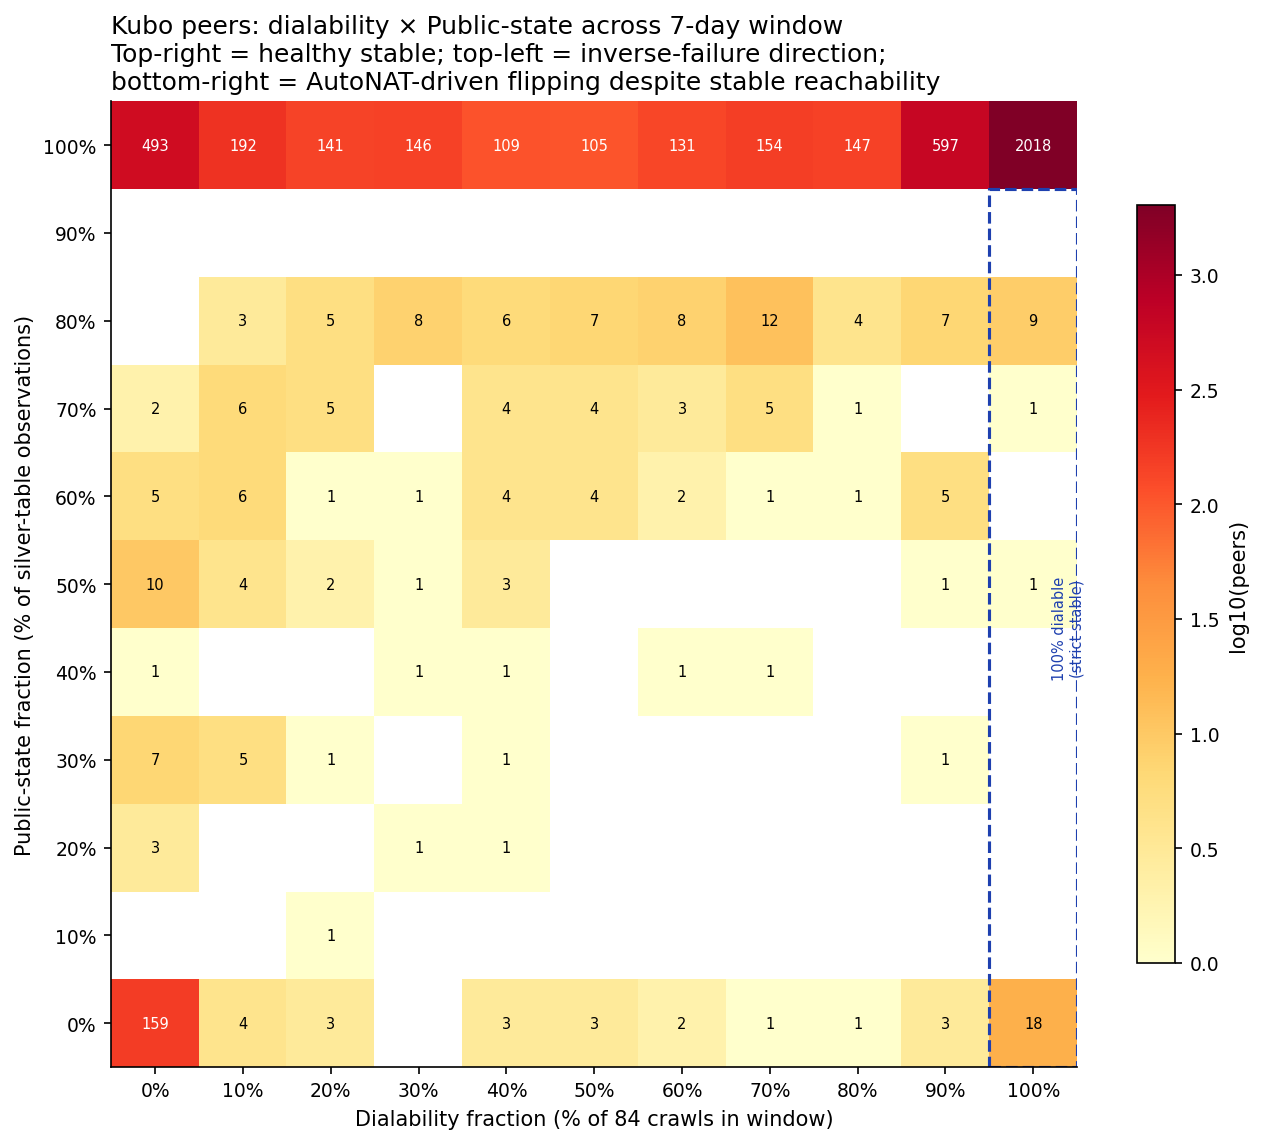
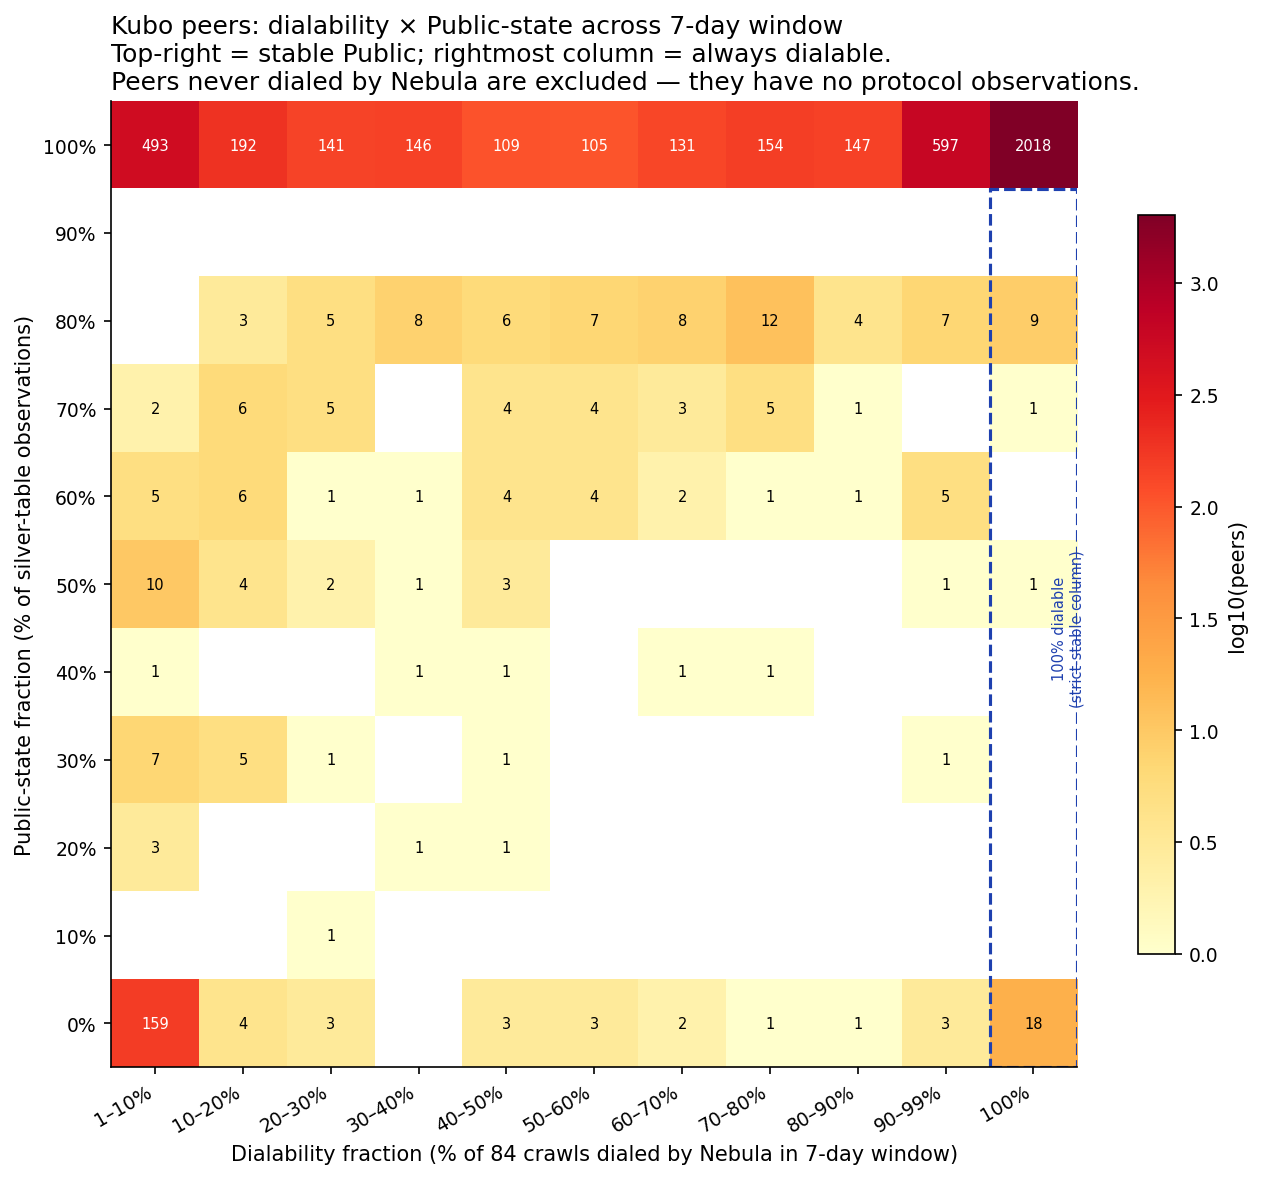
docs(nebula): fix figure 6 X-axis labels — leftmost column is "1-10%", not "0%"
Two corrections to the dialability × Public-state heatmap (figure 6):

1. Relabel X-axis ticks. The leftmost decile contained peers dialed in
   1 to 8 crawls out of 84, NOT peers dialed in zero crawls. Peers with
   zero successful dials are excluded by the SQL filter (they have no
   silver observations to compute Public-state fraction from). The
   previous "0%" label suggested a "never dialable" cell that doesn't
   exist in the data. New labels: "1-10%", "10-20%", ..., "90-99%", "100%".

2. Update the chart title to make the exclusion explicit: "Peers never
   dialed by Nebula are excluded — they have no protocol observations."

Also update the markdown caption in the report to repeat the
clarification, so a reader who looks at the figure caption (not the
chart title) understands what is in the leftmost column.

diff --git a/results/nebula-analysis/plot.py b/results/nebula-analysis/plot.py
@@ -291,15 +291,25 @@ def chart_dialability_vs_public():
                 ax.text(d, p, str(v), ha="center", va="center",
                         fontsize=7, color=color)
 
+    # X-axis: dialability deciles. Decile 0 contains peers dialed in 1 to
+    # 8 successful crawls out of 84 — NOT zero. Peers with zero successful
+    # dials are excluded by the SQL filter (they have no silver observations
+    # to compute Public-state fraction from).
+    dial_labels = [
+        "1–10%", "10–20%", "20–30%", "30–40%", "40–50%",
+        "50–60%", "60–70%", "70–80%", "80–90%", "90–99%", "100%",
+    ]
+    pub_labels = [f"{i*10}%" for i in range(11)]
+
     ax.set_xticks(range(11))
-    ax.set_xticklabels([f"{i*10}%" for i in range(11)])
+    ax.set_xticklabels(dial_labels, rotation=30, ha="right")
     ax.set_yticks(range(11))
-    ax.set_yticklabels([f"{i*10}%" for i in range(11)])
-    ax.set_xlabel("Dialability fraction (% of 84 crawls in window)")
+    ax.set_yticklabels(pub_labels)
+    ax.set_xlabel("Dialability fraction (% of 84 crawls dialed by Nebula in 7-day window)")
     ax.set_ylabel("Public-state fraction (% of silver-table observations)")
     ax.set_title("Kubo peers: dialability × Public-state across 7-day window\n"
-                 "Top-right = healthy stable; top-left = inverse-failure direction;\n"
-                 "bottom-right = AutoNAT-driven flipping despite stable reachability",
+                 "Top-right = stable Public; rightmost column = always dialable.\n"
+                 "Peers never dialed by Nebula are excluded — they have no protocol observations.",
                  loc="left")
 
     cbar = fig.colorbar(im, ax=ax, shrink=0.7, label="log10(peers)")
@@ -309,7 +319,7 @@ def chart_dialability_vs_public():
     ax.add_patch(plt.Rectangle((9.5, -0.5), 1.0, 10.0,
                                 fill=False, edgecolor="#1e40af",
                                 linewidth=1.5, linestyle="--"))
-    ax.text(10.4, 4.5, "100% dialable\n(strict stable)", rotation=90,
+    ax.text(10.4, 4.5, "100% dialable\n(strict-stable column)", rotation=90,
             ha="center", va="center", fontsize=7, color="#1e40af")
 
     fig.tight_layout()

diff --git a/docs/nebula-autonat-analysis.md b/docs/nebula-autonat-analysis.md
@@ -171,9 +171,12 @@ subset for F4 is much smaller — see Appendix C.2.*
 
 ![Dialability × Public-state heatmap](../results/nebula-analysis/08_dialability_vs_public.png)
 *Figure 6: 2D distribution of Kubo peers by dialability fraction (X)
-and Public-state fraction (Y) over the 7-day window. The dashed blue
-line marks the strict 100%-dialable column. The 8 strict-flipping peers
-sit inside that column at Y < 100%.*
+and Public-state fraction (Y) over the 7-day window. The leftmost X
+column ("1–10%") contains peers dialed in 1 to 8 crawls out of 84;
+peers never dialed by Nebula are excluded entirely (they have no
+silver-table observations). The dashed blue line marks the strict
+100%-dialable column. The 8 strict-flipping peers from F4 sit inside
+that column at Y < 100%.*
 
 **See Appendix C** for the full state-machine reference, the list of
 the 8 peers, the version-by-version breakdown across multiple
